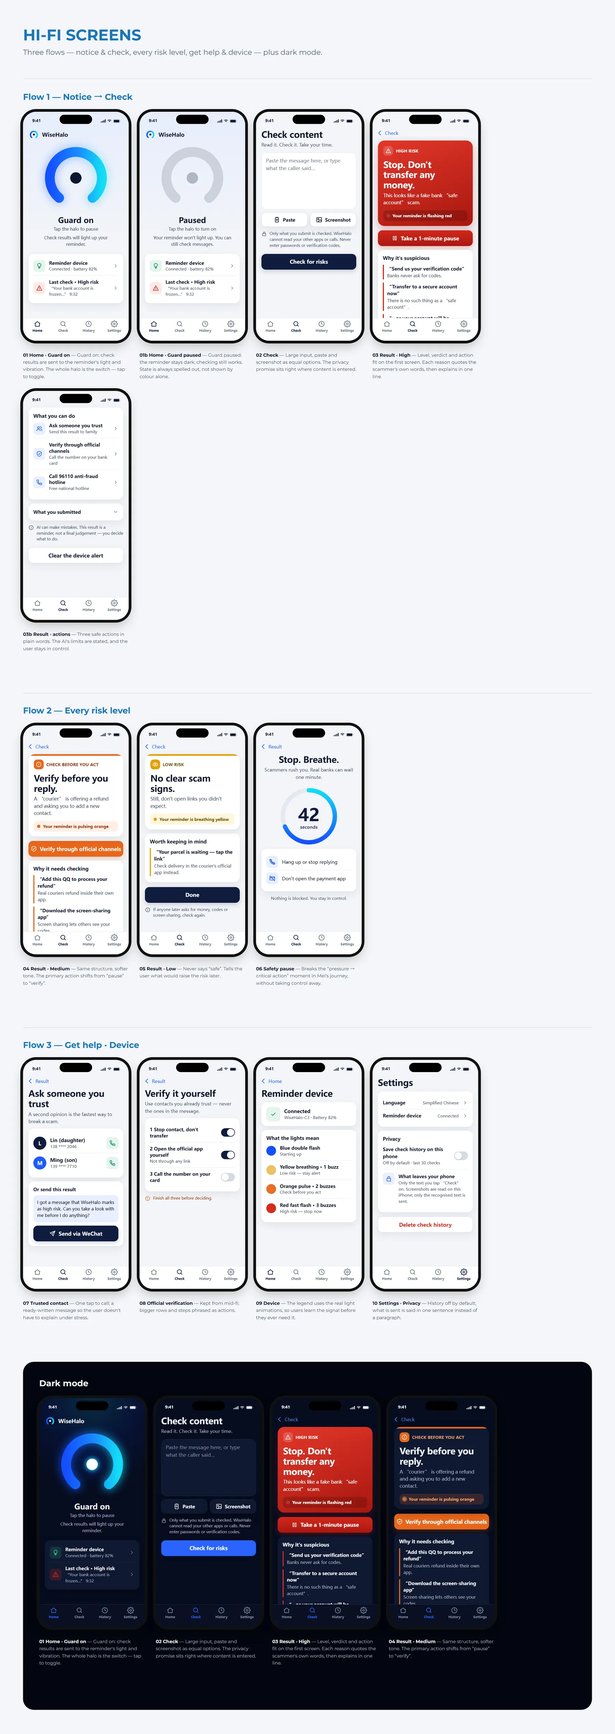
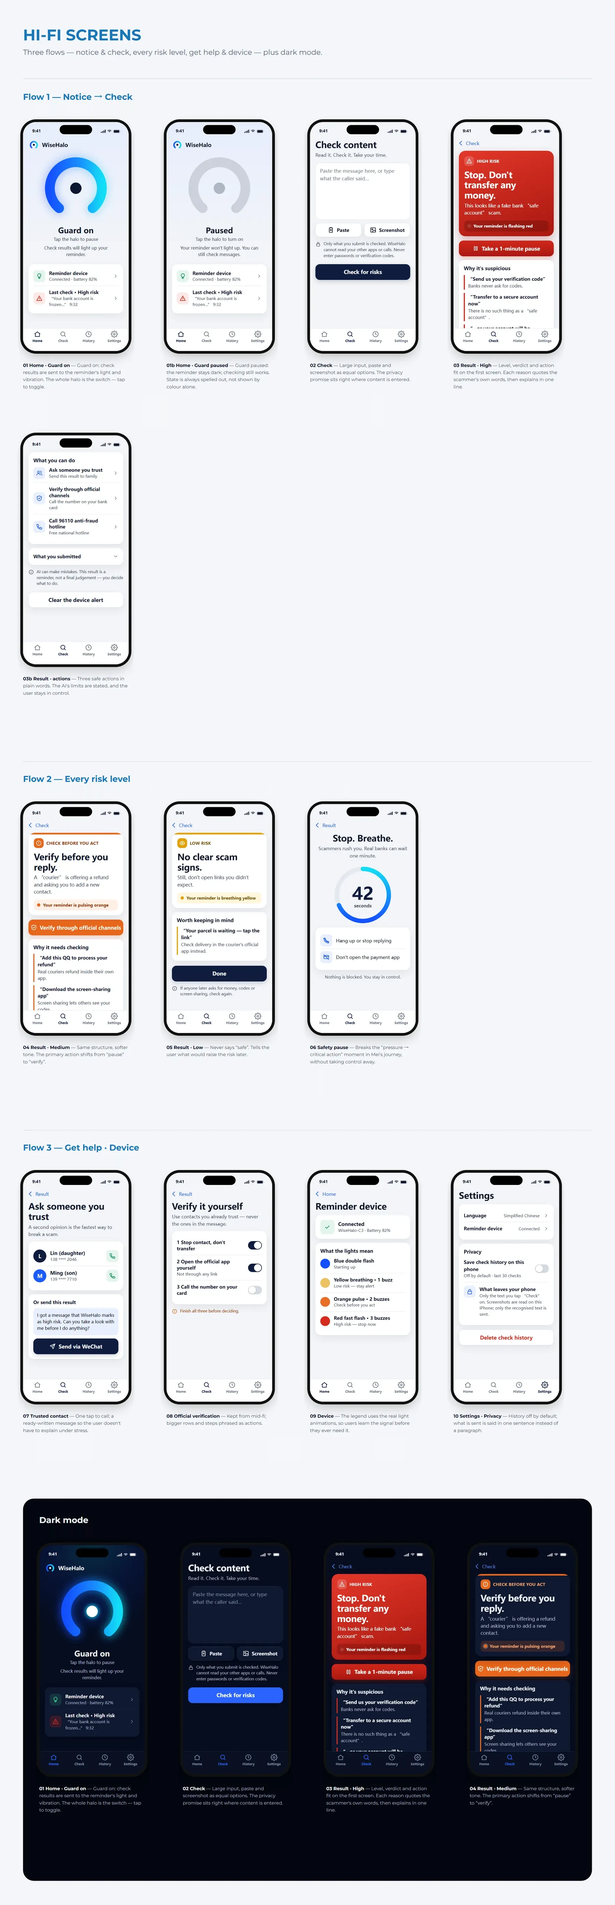
WiseHalo hi-fi boards: wider spacing between screens and rows (zh + en)
Claude-Session: https://claude.ai/code/session_01Dkuoh5qXSQDsoVuafdGbwV

diff --git a/works/wisehalo.html b/works/wisehalo.html
@@ -33,7 +33,7 @@ try{if(!sessionStorage.getItem('wz-loaded')&&!matchMedia('(prefers-reduced-motio
 <main class="project">
   <section class="meta"><div class="m-row"><span><span class="l-zh" lang="zh-Hans-CN">项目类型</span><span class="l-en" lang="en">Project type</span></span><span class="span2"><span class="l-zh" lang="zh-Hans-CN">AI + IOT 硕士毕业设计项目</span><span class="l-en" lang="en">AI + IoT MA thesis project</span></span></div><div class="m-row"><span><span class="l-zh" lang="zh-Hans-CN">项目名称</span><span class="l-en" lang="en">Project name</span></span><span class="span2"><span class="l-zh" lang="zh-Hans-CN">WiseHalo｜AI 防诈骗风险提示系统</span><span class="l-en" lang="en">WiseHalo — Making Hidden Scam Systems Visible</span></span></div><div class="m-row"><span><span class="l-zh" lang="zh-Hans-CN">分类</span><span class="l-en" lang="en">Category</span></span><span class="span2"><span class="tag">[<span class="l-zh" lang="zh-Hans-CN">AI</span><span class="l-en" lang="en">AI</span>]</span><span class="tag">[<span class="l-zh" lang="zh-Hans-CN">交互设计</span><span class="l-en" lang="en">Interaction design</span>]</span><span class="tag">[<span class="l-zh" lang="zh-Hans-CN">IOT</span><span class="l-en" lang="en">IoT</span>]</span><span class="tag">[<span class="l-zh" lang="zh-Hans-CN">适老化</span><span class="l-en" lang="en">Age-inclusive</span>]</span></span></div><div class="m-row"><span><span class="l-zh" lang="zh-Hans-CN">时间</span><span class="l-en" lang="en">Date</span></span><span class="span2">11.2026</span></div></section>
   <div class="p-grid">
-    <div class="p-main"><figure class="fig"><img src="../images/wisehalo/00-hero.webp?v=1794632484" width="1800" height="1012" alt=""></figure><div class="sec-head"><span>01</span><span><span class="l-zh" lang="zh-Hans-CN">问题：诈骗是一个系统</span><span class="l-en" lang="en">Problem: scams are systems</span></span><span class="sec-text"><span class="l-zh" lang="zh-Hans-CN">公开案例显示，诈骗从社交平台和日常任务开始接触用户，用虚假身份建立信任，再用紧迫感和小额回报推动用户做出高风险操作。大多数人只看到表面信息，看不到背后的运作方式，也就很难在中途停下来。</span><span class="l-en" lang="en">Public cases show scams reach people through everyday channels, build trust with fake identities, then use urgency and small rewards to push risky actions. Most people only see the surface message, not the system behind it — so it is hard to stop midway.</span></span></div><div class="figs figs-stack"><figure class="fig"><img src="../images/wisehalo/01.webp?v=1794632484" width="1800" height="1012" alt="" loading="lazy" decoding="async"></figure><figure class="fig"><img src="../images/wisehalo/02.webp?v=1794632484" width="1800" height="1012" alt="" loading="lazy" decoding="async"></figure></div><div class="sec-head"><span>02</span><span><span class="l-zh" lang="zh-Hans-CN">研究：20 个公开案例 + 32 份问卷</span><span class="l-en" lang="en">Research: 20 public cases + 32 surveys</span></span><span class="sec-text"><span class="l-zh" lang="zh-Hans-CN">我分析了 20 个中国 50–65 岁受害者的公开案例，并对 32 人做了线上问卷（其中 50 岁以上 15 人）。大多数人在可疑互动中会提前退出，但最需要的不是更多警告，而是“为什么可疑”的具体解释、可以马上执行的下一步，以及对保护工具本身的信任。</span><span class="l-en" lang="en">I analysed 20 public cases of victims aged 50–65 in China and ran an online survey with 32 people (15 aged 50+). Most respondents already exit suspicious interactions early — what they need is not more warnings, but a specific explanation of why something is suspicious, an actionable next step, and trust in the protective tool itself.</span></span></div><div class="figs figs-stack"><figure class="fig"><img src="../images/wisehalo/03.webp?v=1794632484" width="1800" height="1012" alt="" loading="lazy" decoding="async"></figure><figure class="fig"><img src="../images/wisehalo/04.webp?v=1794632484" width="1800" height="1012" alt="" loading="lazy" decoding="async"></figure><figure class="fig"><img src="../images/wisehalo/05.webp?v=1794632485" width="1800" height="1012" alt="" loading="lazy" decoding="async"></figure><figure class="fig"><img src="../images/wisehalo/06.webp?v=1794632485" width="1800" height="1012" alt="" loading="lazy" decoding="async"></figure><figure class="fig"><img src="../images/wisehalo/07.webp?v=1794632485" width="1800" height="1012" alt="" loading="lazy" decoding="async"></figure><figure class="fig"><img src="../images/wisehalo/08.webp?v=1794632485" width="1800" height="1012" alt="" loading="lazy" decoding="async"></figure></div><div class="sec-head"><span>03</span><span><span class="l-zh" lang="zh-Hans-CN">策略：风险越高，反馈越强</span><span class="l-en" lang="en">Strategy: stronger risk, stronger response</span></span><span class="sec-text"><span class="l-zh" lang="zh-Hans-CN">设备的反馈随风险逐级升级：低风险用黄色呼吸灯提示“核实来源”；中风险用橙色双脉冲并解释诈骗手法、建议联系信任的人；高风险用红色快闪和重复震动，配合手机全屏提示暂停付款。始终由用户自己决定下一步。</span><span class="l-en" lang="en">Feedback escalates with risk: low risk shows a yellow breathing light and suggests checking the source; medium risk adds an orange double pulse, explains the tactic and suggests contacting someone trusted; high risk uses a fast red flash and repeated vibration with a full-screen prompt to pause the payment. The user always makes the final call.</span></span></div><div class="figs figs-stack"><figure class="fig"><img src="../images/wisehalo/09.webp?v=1794632486" width="1800" height="1012" alt="" loading="lazy" decoding="async"></figure><figure class="fig"><img src="../images/wisehalo/10.webp?v=1794632486" width="1800" height="1012" alt="" loading="lazy" decoding="async"></figure><figure class="fig"><img src="../images/wisehalo/11.webp?v=1794632486" width="1800" height="1012" alt="" loading="lazy" decoding="async"></figure></div><div class="sec-head"><span>04</span><span><span class="l-zh" lang="zh-Hans-CN">系统与信息架构</span><span class="l-en" lang="en">System &amp; information architecture</span></span><span class="sec-text"><span class="l-zh" lang="zh-Hans-CN">手机端负责接收可疑内容、调用 AI 分析并解释风险；设备端把风险等级转化为灯光与震动。信息架构围绕“检查 → 理解 → 选择安全行动”三步组织。</span><span class="l-en" lang="en">The phone receives suspicious content, calls the AI analysis and explains the risk; the device translates the risk level into light and vibration. The information architecture follows three steps: check → understand → choose a safe action.</span></span></div><div class="figs figs-stack"><figure class="fig"><img class="l-zh" src="../images/wisehalo/12.webp?v=1794635873" width="1800" height="1861" alt="" loading="lazy" decoding="async"><img class="l-en" src="../images/wisehalo/13.webp?v=1794635873" width="1800" height="1877" alt="" loading="lazy" decoding="async"></figure><figure class="fig"><img src="../images/wisehalo/14.webp?v=1794632487" width="1800" height="1012" alt="" loading="lazy" decoding="async"></figure><figure class="fig"><img src="../images/wisehalo/15.webp?v=1794632487" width="1800" height="1012" alt="" loading="lazy" decoding="async"></figure><figure class="fig"><img src="../images/wisehalo/16.webp?v=1794632488" width="1800" height="1012" alt="" loading="lazy" decoding="async"></figure></div><div class="sec-head"><span>05</span><span><span class="l-zh" lang="zh-Hans-CN">界面：从中保真到高保真</span><span class="l-en" lang="en">Interface: from mid-fi to hi-fi</span></span><span class="sec-text"><span class="l-zh" lang="zh-Hans-CN">高保真把首页做成一个由 App 图标生成的“光环开关”：打开是提醒器守护中，关掉是只用手机提醒。主题色取自图标的藏青与蓝青，鲜艳的颜色只留给光环和风险等级；结果页按“风险等级 → 一句话指令 → 一个主按钮 → 为什么可疑 → 求助”排列，并提供深色模式。下方按设计推进的顺序排列：低保真 → 中保真 → App 图标 → 设计规范（色彩、风险等级、字号与图标、组件、光环开关与结果页）→ 全部高保真界面与深色模式。</span><span class="l-en" lang="en">The hi-fi turns Home into a “halo switch” drawn from the app icon: on means the reminder is guarding, off means phone-only alerts. Colours come from the icon’s navy and blue-cyan, with bright colour reserved for the halo and risk levels. Results follow risk level → one instruction → one primary action → why it’s suspicious → get help, with a dark mode. Below, in the order the design developed: low-fi → mid-fi → app icon → design system (colour, risk levels, type &amp; icons, components, halo switch &amp; result order) → every hi-fi screen plus dark mode.</span></span></div><div class="figs figs-stack"><figure class="fig"><img src="../images/wisehalo/17.webp?v=1794634616" width="1800" height="1012" alt="" loading="lazy" decoding="async"></figure><figure class="fig"><img src="../images/wisehalo/18.webp?v=1794634616" width="1800" height="1012" alt="" loading="lazy" decoding="async"></figure><figure class="fig"><img src="../images/wisehalo/19.webp?v=1794634617" width="1800" height="1012" alt="" loading="lazy" decoding="async"></figure><figure class="fig"><img class="l-zh" src="../images/wisehalo/20.webp?v=1794635873" width="1800" height="1012" alt="" loading="lazy" decoding="async"><img class="l-en" src="../images/wisehalo/21.webp?v=1794635874" width="1800" height="1012" alt="" loading="lazy" decoding="async"></figure><figure class="fig"><img class="l-zh" src="../images/wisehalo/22.webp?v=1794635874" width="1800" height="1012" alt="" loading="lazy" decoding="async"><img class="l-en" src="../images/wisehalo/23.webp?v=1794635874" width="1800" height="1012" alt="" loading="lazy" decoding="async"></figure><figure class="fig"><img class="l-zh" src="../images/wisehalo/24.webp?v=1794635874" width="1800" height="1012" alt="" loading="lazy" decoding="async"><img class="l-en" src="../images/wisehalo/25.webp?v=1794635874" width="1800" height="1012" alt="" loading="lazy" decoding="async"></figure><figure class="fig"><img class="l-zh" src="../images/wisehalo/26.webp?v=1794635875" width="1800" height="1012" alt="" loading="lazy" decoding="async"><img class="l-en" src="../images/wisehalo/27.webp?v=1794635875" width="1800" height="1012" alt="" loading="lazy" decoding="async"></figure><figure class="fig"><img class="l-zh" src="../images/wisehalo/28.webp?v=1794635875" width="1800" height="1012" alt="" loading="lazy" decoding="async"><img class="l-en" src="../images/wisehalo/29.webp?v=1794635875" width="1800" height="1012" alt="" loading="lazy" decoding="async"></figure><figure class="fig"><img class="l-zh" src="../images/wisehalo/30.webp?v=1794635877" width="1800" height="4972" alt="" loading="lazy" decoding="async"><img class="l-en" src="../images/wisehalo/31.webp?v=1794635878" width="1800" height="5069" alt="" loading="lazy" decoding="async"></figure></div><div class="sec-head"><span>06</span><span><span class="l-zh" lang="zh-Hans-CN">可交互原型：试一试</span><span class="l-en" lang="en">Interactive prototype: try it</span></span><span class="sec-text"><span class="l-zh" lang="zh-Hans-CN">这是远程可用性测试使用的原型：点“粘贴”或选一条示例，再点“开始检查”，可以看到风险结果、先暂停 1 分钟、三步核实、发给家人，以及不用打字的“通话快速自查”。首页的光环可以在“只用手机提醒”和“手机 + 提醒器”之间切换——这正是测试中对比的两组。原型用固定规则代替 AI，提醒器状态为模拟。</span><span class="l-en" lang="en">This is the prototype used for remote usability testing: tap Paste or pick an example, then Check, to see the risk result, the 1-minute pause, three-step verification, sending it to family, and the no-typing call self-check. The halo on Home switches between phone-only alerts and phone + reminder — the two conditions compared in testing. The prototype uses fixed rules instead of AI, and the reminder is simulated.</span></span></div><div class="figs figs-stack"><figure class="fig embed phone stage st-halo"><div class="stage-bg" aria-hidden="true"><svg class="stage-halo" viewBox="0 0 236 236" preserveAspectRatio="xMidYMid meet"><defs><linearGradient id="st-halo-g" x1="0" x2="1"><stop offset="0" stop-color="#1450FF"/><stop offset=".55" stop-color="#1A8BFF"/><stop offset="1" stop-color="#12DCF6"/></linearGradient><filter id="st-halo-blur" x="-30%" y="-30%" width="160%" height="160%"><feGaussianBlur stdDeviation="9"/></filter></defs><path class="glow" d="M56.3 191.5A96 96 0 1 1 179.7 191.5"/><path class="echo" d="M38.3 213.0A124 124 0 1 1 197.7 213.0"/><path class="echo e2" d="M21.6 232.9A150 150 0 1 1 214.4 232.9"/><path class="ring" d="M56.3 191.5A96 96 0 1 1 179.7 191.5"/><circle class="led low" cx="34.9" cy="70" r="2.6"/><circle class="led mid" cx="118" cy="22" r="2.6"/><circle class="led high" cx="201.1" cy="70" r="2.6"/></svg><div class="stage-label"><b><span class="l-zh" lang="zh-Hans-CN">可试玩 · 安心护</span><span class="l-en" lang="en">Live demo · WiseHalo</span></b><span><span class="l-zh" lang="zh-Hans-CN">演示模式 · 固定规则代替 AI</span><span class="l-en" lang="en">Demo mode · fixed rules instead of AI</span></span></div><div class="stage-co stage-co1"><span class="n">01</span><b><span class="l-zh" lang="zh-Hans-CN">粘贴 → 检查</span><span class="l-en" lang="en">Paste → Check</span></b><span class="d"><span class="l-zh" lang="zh-Hans-CN">选一条示例，看风险结果</span><span class="l-en" lang="en">Pick an example, see the risk</span></span><i></i></div><div class="stage-co stage-co2"><span class="n">02</span><b><span class="l-zh" lang="zh-Hans-CN">先停一下</span><span class="l-en" lang="en">Pause first</span></b><span class="d"><span class="l-zh" lang="zh-Hans-CN">高风险时暂停 1 分钟，再核实</span><span class="l-en" lang="en">High risk: a 1-minute pause, then verify</span></span><i></i></div><div class="stage-co stage-co3"><span class="n">03</span><b><span class="l-zh" lang="zh-Hans-CN">光环开关</span><span class="l-en" lang="en">Halo switch</span></b><span class="d"><span class="l-zh" lang="zh-Hans-CN">只用手机 ↔ 手机 + 提醒器</span><span class="l-en" lang="en">Phone only ↔ phone + reminder</span></span><i></i></div><div class="stage-co stage-co4"><span class="n">04</span><b><span class="l-zh" lang="zh-Hans-CN">通话快速自查</span><span class="l-en" lang="en">Call self-check</span></b><span class="d"><span class="l-zh" lang="zh-Hans-CN">不用打字，回答 5 个问题</span><span class="l-en" lang="en">No typing, five questions</span></span><i></i></div></div><iframe data-lang-src="../wisehalo-test/?demo=1&amp;frame=1&amp;lang={lang}&amp;theme={theme}" title="WiseHalo interactive prototype" loading="lazy" allow="microphone; camera; autoplay; clipboard-write"></iframe><figcaption><a class="u" href="../wisehalo-test/?demo=1" target="_blank" rel="noopener"><span class="l-zh" lang="zh-Hans-CN">在新窗口打开，或用手机打开 ↗</span><span class="l-en" lang="en">Open in a new tab or on your phone ↗</span></a></figcaption></figure></div><div class="sec-head"><span>07</span><span><span class="l-zh" lang="zh-Hans-CN">硬件原型：灯光与震动语言</span><span class="l-en" lang="en">Hardware: a language of light and vibration</span></span><span class="sec-text"><span class="l-zh" lang="zh-Hans-CN">用 ESP32-C3、RGB 灯环和震动马达搭建原型：先在 Wokwi 中仿真三种风险等级的反馈逻辑，再在面包板上逐项测试灯光和震动，最后让 App 的 AI 分析结果驱动设备反馈。</span><span class="l-en" lang="en">Built with an ESP32-C3, an RGB LED ring and a vibration motor: the feedback logic for three risk levels was first simulated in Wokwi, then tested on a breadboard, and finally driven by the app&#x27;s AI analysis result.</span></span></div><div class="figs figs-stack"><figure class="fig"><img src="../images/wisehalo/32.webp?v=1794634622" width="1800" height="1012" alt="" loading="lazy" decoding="async"></figure><figure class="fig"><img src="../images/wisehalo/33.webp?v=1794634622" width="1800" height="1012" alt="" loading="lazy" decoding="async"></figure><figure class="fig"><img src="../images/wisehalo/34.webp?v=1794634622" width="1800" height="1012" alt="" loading="lazy" decoding="async"></figure><figure class="fig"><img src="../images/wisehalo/35.webp?v=1794634622" width="1800" height="1012" alt="" loading="lazy" decoding="async"></figure><figure class="fig"><img src="../images/wisehalo/36.webp?v=1794634623" width="1800" height="1012" alt="" loading="lazy" decoding="async"></figure><figure class="fig"><img src="../images/wisehalo/37.webp?v=1794634623" width="1800" height="1012" alt="" loading="lazy" decoding="async"></figure></div><div class="sec-head"><span>08</span><span><span class="l-zh" lang="zh-Hans-CN">现状与下一步</span><span class="l-en" lang="en">Status &amp; next steps</span></span><span class="sec-text"><span class="l-zh" lang="zh-Hans-CN">目前已实现：高保真 iOS App（SwiftUI）——提交文字或截图 → AI 分析 → 风险等级、解释与建议 → 提醒器灯光与震动；手机负责“提醒一次”，桌上的提醒器“一直提醒，直到您暂停或核实”。另有通话快速自查、读给我听、屏幕共享警告和 App 内字号。下一步：对 5 位 50 岁以上长辈做远程可用性测试（含“只有手机 / 手机 + 提醒器”对比）和专家评估。</span><span class="l-en" lang="en">Working today: a hi-fi iOS app (SwiftUI) — submit text or a screenshot → AI analysis → risk level, explanation and advice → light and vibration on the reminder. The phone alerts once; the desk reminder keeps alerting until you pause or verify. Also: a call self-check, read-aloud, a screen-sharing warning and in-app text size. Next: remote usability testing with five adults aged 50+ (including phone-only vs phone + reminder) and an expert evaluation.</span></span></div></div>
+    <div class="p-main"><figure class="fig"><img src="../images/wisehalo/00-hero.webp?v=1794632484" width="1800" height="1012" alt=""></figure><div class="sec-head"><span>01</span><span><span class="l-zh" lang="zh-Hans-CN">问题：诈骗是一个系统</span><span class="l-en" lang="en">Problem: scams are systems</span></span><span class="sec-text"><span class="l-zh" lang="zh-Hans-CN">公开案例显示，诈骗从社交平台和日常任务开始接触用户，用虚假身份建立信任，再用紧迫感和小额回报推动用户做出高风险操作。大多数人只看到表面信息，看不到背后的运作方式，也就很难在中途停下来。</span><span class="l-en" lang="en">Public cases show scams reach people through everyday channels, build trust with fake identities, then use urgency and small rewards to push risky actions. Most people only see the surface message, not the system behind it — so it is hard to stop midway.</span></span></div><div class="figs figs-stack"><figure class="fig"><img src="../images/wisehalo/01.webp?v=1794632484" width="1800" height="1012" alt="" loading="lazy" decoding="async"></figure><figure class="fig"><img src="../images/wisehalo/02.webp?v=1794632484" width="1800" height="1012" alt="" loading="lazy" decoding="async"></figure></div><div class="sec-head"><span>02</span><span><span class="l-zh" lang="zh-Hans-CN">研究：20 个公开案例 + 32 份问卷</span><span class="l-en" lang="en">Research: 20 public cases + 32 surveys</span></span><span class="sec-text"><span class="l-zh" lang="zh-Hans-CN">我分析了 20 个中国 50–65 岁受害者的公开案例，并对 32 人做了线上问卷（其中 50 岁以上 15 人）。大多数人在可疑互动中会提前退出，但最需要的不是更多警告，而是“为什么可疑”的具体解释、可以马上执行的下一步，以及对保护工具本身的信任。</span><span class="l-en" lang="en">I analysed 20 public cases of victims aged 50–65 in China and ran an online survey with 32 people (15 aged 50+). Most respondents already exit suspicious interactions early — what they need is not more warnings, but a specific explanation of why something is suspicious, an actionable next step, and trust in the protective tool itself.</span></span></div><div class="figs figs-stack"><figure class="fig"><img src="../images/wisehalo/03.webp?v=1794632484" width="1800" height="1012" alt="" loading="lazy" decoding="async"></figure><figure class="fig"><img src="../images/wisehalo/04.webp?v=1794632484" width="1800" height="1012" alt="" loading="lazy" decoding="async"></figure><figure class="fig"><img src="../images/wisehalo/05.webp?v=1794632485" width="1800" height="1012" alt="" loading="lazy" decoding="async"></figure><figure class="fig"><img src="../images/wisehalo/06.webp?v=1794632485" width="1800" height="1012" alt="" loading="lazy" decoding="async"></figure><figure class="fig"><img src="../images/wisehalo/07.webp?v=1794632485" width="1800" height="1012" alt="" loading="lazy" decoding="async"></figure><figure class="fig"><img src="../images/wisehalo/08.webp?v=1794632485" width="1800" height="1012" alt="" loading="lazy" decoding="async"></figure></div><div class="sec-head"><span>03</span><span><span class="l-zh" lang="zh-Hans-CN">策略：风险越高，反馈越强</span><span class="l-en" lang="en">Strategy: stronger risk, stronger response</span></span><span class="sec-text"><span class="l-zh" lang="zh-Hans-CN">设备的反馈随风险逐级升级：低风险用黄色呼吸灯提示“核实来源”；中风险用橙色双脉冲并解释诈骗手法、建议联系信任的人；高风险用红色快闪和重复震动，配合手机全屏提示暂停付款。始终由用户自己决定下一步。</span><span class="l-en" lang="en">Feedback escalates with risk: low risk shows a yellow breathing light and suggests checking the source; medium risk adds an orange double pulse, explains the tactic and suggests contacting someone trusted; high risk uses a fast red flash and repeated vibration with a full-screen prompt to pause the payment. The user always makes the final call.</span></span></div><div class="figs figs-stack"><figure class="fig"><img src="../images/wisehalo/09.webp?v=1794632486" width="1800" height="1012" alt="" loading="lazy" decoding="async"></figure><figure class="fig"><img src="../images/wisehalo/10.webp?v=1794632486" width="1800" height="1012" alt="" loading="lazy" decoding="async"></figure><figure class="fig"><img src="../images/wisehalo/11.webp?v=1794632486" width="1800" height="1012" alt="" loading="lazy" decoding="async"></figure></div><div class="sec-head"><span>04</span><span><span class="l-zh" lang="zh-Hans-CN">系统与信息架构</span><span class="l-en" lang="en">System &amp; information architecture</span></span><span class="sec-text"><span class="l-zh" lang="zh-Hans-CN">手机端负责接收可疑内容、调用 AI 分析并解释风险；设备端把风险等级转化为灯光与震动。信息架构围绕“检查 → 理解 → 选择安全行动”三步组织。</span><span class="l-en" lang="en">The phone receives suspicious content, calls the AI analysis and explains the risk; the device translates the risk level into light and vibration. The information architecture follows three steps: check → understand → choose a safe action.</span></span></div><div class="figs figs-stack"><figure class="fig"><img class="l-zh" src="../images/wisehalo/12.webp?v=1794635873" width="1800" height="1861" alt="" loading="lazy" decoding="async"><img class="l-en" src="../images/wisehalo/13.webp?v=1794635873" width="1800" height="1877" alt="" loading="lazy" decoding="async"></figure><figure class="fig"><img src="../images/wisehalo/14.webp?v=1794632487" width="1800" height="1012" alt="" loading="lazy" decoding="async"></figure><figure class="fig"><img src="../images/wisehalo/15.webp?v=1794632487" width="1800" height="1012" alt="" loading="lazy" decoding="async"></figure><figure class="fig"><img src="../images/wisehalo/16.webp?v=1794632488" width="1800" height="1012" alt="" loading="lazy" decoding="async"></figure></div><div class="sec-head"><span>05</span><span><span class="l-zh" lang="zh-Hans-CN">界面：从中保真到高保真</span><span class="l-en" lang="en">Interface: from mid-fi to hi-fi</span></span><span class="sec-text"><span class="l-zh" lang="zh-Hans-CN">高保真把首页做成一个由 App 图标生成的“光环开关”：打开是提醒器守护中，关掉是只用手机提醒。主题色取自图标的藏青与蓝青，鲜艳的颜色只留给光环和风险等级；结果页按“风险等级 → 一句话指令 → 一个主按钮 → 为什么可疑 → 求助”排列，并提供深色模式。下方按设计推进的顺序排列：低保真 → 中保真 → App 图标 → 设计规范（色彩、风险等级、字号与图标、组件、光环开关与结果页）→ 全部高保真界面与深色模式。</span><span class="l-en" lang="en">The hi-fi turns Home into a “halo switch” drawn from the app icon: on means the reminder is guarding, off means phone-only alerts. Colours come from the icon’s navy and blue-cyan, with bright colour reserved for the halo and risk levels. Results follow risk level → one instruction → one primary action → why it’s suspicious → get help, with a dark mode. Below, in the order the design developed: low-fi → mid-fi → app icon → design system (colour, risk levels, type &amp; icons, components, halo switch &amp; result order) → every hi-fi screen plus dark mode.</span></span></div><div class="figs figs-stack"><figure class="fig"><img src="../images/wisehalo/17.webp?v=1794634616" width="1800" height="1012" alt="" loading="lazy" decoding="async"></figure><figure class="fig"><img src="../images/wisehalo/18.webp?v=1794634616" width="1800" height="1012" alt="" loading="lazy" decoding="async"></figure><figure class="fig"><img src="../images/wisehalo/19.webp?v=1794634617" width="1800" height="1012" alt="" loading="lazy" decoding="async"></figure><figure class="fig"><img class="l-zh" src="../images/wisehalo/20.webp?v=1794635873" width="1800" height="1012" alt="" loading="lazy" decoding="async"><img class="l-en" src="../images/wisehalo/21.webp?v=1794635874" width="1800" height="1012" alt="" loading="lazy" decoding="async"></figure><figure class="fig"><img class="l-zh" src="../images/wisehalo/22.webp?v=1794635874" width="1800" height="1012" alt="" loading="lazy" decoding="async"><img class="l-en" src="../images/wisehalo/23.webp?v=1794635874" width="1800" height="1012" alt="" loading="lazy" decoding="async"></figure><figure class="fig"><img class="l-zh" src="../images/wisehalo/24.webp?v=1794635874" width="1800" height="1012" alt="" loading="lazy" decoding="async"><img class="l-en" src="../images/wisehalo/25.webp?v=1794635874" width="1800" height="1012" alt="" loading="lazy" decoding="async"></figure><figure class="fig"><img class="l-zh" src="../images/wisehalo/26.webp?v=1794635875" width="1800" height="1012" alt="" loading="lazy" decoding="async"><img class="l-en" src="../images/wisehalo/27.webp?v=1794635875" width="1800" height="1012" alt="" loading="lazy" decoding="async"></figure><figure class="fig"><img class="l-zh" src="../images/wisehalo/28.webp?v=1794635875" width="1800" height="1012" alt="" loading="lazy" decoding="async"><img class="l-en" src="../images/wisehalo/29.webp?v=1794635875" width="1800" height="1012" alt="" loading="lazy" decoding="async"></figure><figure class="fig"><img class="l-zh" src="../images/wisehalo/30.webp?v=1794636700" width="1800" height="5472" alt="" loading="lazy" decoding="async"><img class="l-en" src="../images/wisehalo/31.webp?v=1794636700" width="1800" height="5569" alt="" loading="lazy" decoding="async"></figure></div><div class="sec-head"><span>06</span><span><span class="l-zh" lang="zh-Hans-CN">可交互原型：试一试</span><span class="l-en" lang="en">Interactive prototype: try it</span></span><span class="sec-text"><span class="l-zh" lang="zh-Hans-CN">这是远程可用性测试使用的原型：点“粘贴”或选一条示例，再点“开始检查”，可以看到风险结果、先暂停 1 分钟、三步核实、发给家人，以及不用打字的“通话快速自查”。首页的光环可以在“只用手机提醒”和“手机 + 提醒器”之间切换——这正是测试中对比的两组。原型用固定规则代替 AI，提醒器状态为模拟。</span><span class="l-en" lang="en">This is the prototype used for remote usability testing: tap Paste or pick an example, then Check, to see the risk result, the 1-minute pause, three-step verification, sending it to family, and the no-typing call self-check. The halo on Home switches between phone-only alerts and phone + reminder — the two conditions compared in testing. The prototype uses fixed rules instead of AI, and the reminder is simulated.</span></span></div><div class="figs figs-stack"><figure class="fig embed phone stage st-halo"><div class="stage-bg" aria-hidden="true"><svg class="stage-halo" viewBox="0 0 236 236" preserveAspectRatio="xMidYMid meet"><defs><linearGradient id="st-halo-g" x1="0" x2="1"><stop offset="0" stop-color="#1450FF"/><stop offset=".55" stop-color="#1A8BFF"/><stop offset="1" stop-color="#12DCF6"/></linearGradient><filter id="st-halo-blur" x="-30%" y="-30%" width="160%" height="160%"><feGaussianBlur stdDeviation="9"/></filter></defs><path class="glow" d="M56.3 191.5A96 96 0 1 1 179.7 191.5"/><path class="echo" d="M38.3 213.0A124 124 0 1 1 197.7 213.0"/><path class="echo e2" d="M21.6 232.9A150 150 0 1 1 214.4 232.9"/><path class="ring" d="M56.3 191.5A96 96 0 1 1 179.7 191.5"/><circle class="led low" cx="34.9" cy="70" r="2.6"/><circle class="led mid" cx="118" cy="22" r="2.6"/><circle class="led high" cx="201.1" cy="70" r="2.6"/></svg><div class="stage-label"><b><span class="l-zh" lang="zh-Hans-CN">可试玩 · 安心护</span><span class="l-en" lang="en">Live demo · WiseHalo</span></b><span><span class="l-zh" lang="zh-Hans-CN">演示模式 · 固定规则代替 AI</span><span class="l-en" lang="en">Demo mode · fixed rules instead of AI</span></span></div><div class="stage-co stage-co1"><span class="n">01</span><b><span class="l-zh" lang="zh-Hans-CN">粘贴 → 检查</span><span class="l-en" lang="en">Paste → Check</span></b><span class="d"><span class="l-zh" lang="zh-Hans-CN">选一条示例，看风险结果</span><span class="l-en" lang="en">Pick an example, see the risk</span></span><i></i></div><div class="stage-co stage-co2"><span class="n">02</span><b><span class="l-zh" lang="zh-Hans-CN">先停一下</span><span class="l-en" lang="en">Pause first</span></b><span class="d"><span class="l-zh" lang="zh-Hans-CN">高风险时暂停 1 分钟，再核实</span><span class="l-en" lang="en">High risk: a 1-minute pause, then verify</span></span><i></i></div><div class="stage-co stage-co3"><span class="n">03</span><b><span class="l-zh" lang="zh-Hans-CN">光环开关</span><span class="l-en" lang="en">Halo switch</span></b><span class="d"><span class="l-zh" lang="zh-Hans-CN">只用手机 ↔ 手机 + 提醒器</span><span class="l-en" lang="en">Phone only ↔ phone + reminder</span></span><i></i></div><div class="stage-co stage-co4"><span class="n">04</span><b><span class="l-zh" lang="zh-Hans-CN">通话快速自查</span><span class="l-en" lang="en">Call self-check</span></b><span class="d"><span class="l-zh" lang="zh-Hans-CN">不用打字，回答 5 个问题</span><span class="l-en" lang="en">No typing, five questions</span></span><i></i></div></div><iframe data-lang-src="../wisehalo-test/?demo=1&amp;frame=1&amp;lang={lang}&amp;theme={theme}" title="WiseHalo interactive prototype" loading="lazy" allow="microphone; camera; autoplay; clipboard-write"></iframe><figcaption><a class="u" href="../wisehalo-test/?demo=1" target="_blank" rel="noopener"><span class="l-zh" lang="zh-Hans-CN">在新窗口打开，或用手机打开 ↗</span><span class="l-en" lang="en">Open in a new tab or on your phone ↗</span></a></figcaption></figure></div><div class="sec-head"><span>07</span><span><span class="l-zh" lang="zh-Hans-CN">硬件原型：灯光与震动语言</span><span class="l-en" lang="en">Hardware: a language of light and vibration</span></span><span class="sec-text"><span class="l-zh" lang="zh-Hans-CN">用 ESP32-C3、RGB 灯环和震动马达搭建原型：先在 Wokwi 中仿真三种风险等级的反馈逻辑，再在面包板上逐项测试灯光和震动，最后让 App 的 AI 分析结果驱动设备反馈。</span><span class="l-en" lang="en">Built with an ESP32-C3, an RGB LED ring and a vibration motor: the feedback logic for three risk levels was first simulated in Wokwi, then tested on a breadboard, and finally driven by the app&#x27;s AI analysis result.</span></span></div><div class="figs figs-stack"><figure class="fig"><img src="../images/wisehalo/32.webp?v=1794634622" width="1800" height="1012" alt="" loading="lazy" decoding="async"></figure><figure class="fig"><img src="../images/wisehalo/33.webp?v=1794634622" width="1800" height="1012" alt="" loading="lazy" decoding="async"></figure><figure class="fig"><img src="../images/wisehalo/34.webp?v=1794634622" width="1800" height="1012" alt="" loading="lazy" decoding="async"></figure><figure class="fig"><img src="../images/wisehalo/35.webp?v=1794634622" width="1800" height="1012" alt="" loading="lazy" decoding="async"></figure><figure class="fig"><img src="../images/wisehalo/36.webp?v=1794634623" width="1800" height="1012" alt="" loading="lazy" decoding="async"></figure><figure class="fig"><img src="../images/wisehalo/37.webp?v=1794634623" width="1800" height="1012" alt="" loading="lazy" decoding="async"></figure></div><div class="sec-head"><span>08</span><span><span class="l-zh" lang="zh-Hans-CN">现状与下一步</span><span class="l-en" lang="en">Status &amp; next steps</span></span><span class="sec-text"><span class="l-zh" lang="zh-Hans-CN">目前已实现：高保真 iOS App（SwiftUI）——提交文字或截图 → AI 分析 → 风险等级、解释与建议 → 提醒器灯光与震动；手机负责“提醒一次”，桌上的提醒器“一直提醒，直到您暂停或核实”。另有通话快速自查、读给我听、屏幕共享警告和 App 内字号。下一步：对 5 位 50 岁以上长辈做远程可用性测试（含“只有手机 / 手机 + 提醒器”对比）和专家评估。</span><span class="l-en" lang="en">Working today: a hi-fi iOS app (SwiftUI) — submit text or a screenshot → AI analysis → risk level, explanation and advice → light and vibration on the reminder. The phone alerts once; the desk reminder keeps alerting until you pause or verify. Also: a call self-check, read-aloud, a screen-sharing warning and in-app text size. Next: remote usability testing with five adults aged 50+ (including phone-only vs phone + reminder) and an expert evaluation.</span></span></div></div>
     <aside class="p-side"><div class="sticky"><p><span class="l-zh" lang="zh-Hans-CN">WISEHALO 是我的硕士毕业设计，一个结合 AI 风险分析与实体提醒设备的防诈骗体验项目。项目把可疑信息交给 AI 解释“为什么可疑”，并通过灯光与震动在关键时刻提醒用户先停下来，探索如何让隐藏在日常沟通中的诈骗系统变得可见、可理解、可应对。</span><span class="l-en" lang="en">WISEHALO is my MA thesis: an anti-scam experience combining AI risk analysis with a physical alert device. It asks AI to explain why a message is suspicious and uses light and vibration to prompt a pause at the critical moment — making the scam systems hidden in everyday communication visible, understandable and actionable.</span></p></div></aside>
   </div>
   <section class="meta p-foot"><div class="m-row"><span><span class="l-zh" lang="zh-Hans-CN">CREDITS</span><span class="l-en" lang="en">CREDITS</span></span><span class="span2"><span class="l-zh" lang="zh-Hans-CN">用户研究｜AI 功能设计｜交互设计｜界面设计｜硬件原型</span><span class="l-en" lang="en">User research | AI feature design | Interaction design | UI | Hardware prototyping</span></span></div><div class="m-row"><span><span class="l-zh" lang="zh-Hans-CN">项目性质</span><span class="l-en" lang="en">Format</span></span><span class="span2"><span class="l-zh" lang="zh-Hans-CN">硕士毕业设计 · 个人项目</span><span class="l-en" lang="en">MA thesis · Solo project</span></span></div><div class="m-row"><span><span class="l-zh" lang="zh-Hans-CN">团队</span><span class="l-en" lang="en">Team</span></span><span class="span2"><span class="l-zh" lang="zh-Hans-CN">个人项目</span><span class="l-en" lang="en">Solo</span></span></div><div class="m-row"><span><span class="l-zh" lang="zh-Hans-CN">课程</span><span class="l-en" lang="en">Course</span></span><span class="span2">ITGM 748 · SCAD</span></div><div class="m-row"><span><span class="l-zh" lang="zh-Hans-CN">周期</span><span class="l-en" lang="en">Timeline</span></span><span class="span2">2026.09 – 2026.11</span></div><div class="m-row"><span><span class="l-zh" lang="zh-Hans-CN">工具</span><span class="l-en" lang="en">Tools</span></span><span class="span2">Figma · ESP32-C3 · Wokwi · LLM API · Rhino</span></div><div class="m-row"><span><span class="l-zh" lang="zh-Hans-CN">状态</span><span class="l-en" lang="en">Status</span></span><span class="span2"><span class="l-zh" lang="zh-Hans-CN">进行中</span><span class="l-en" lang="en">In progress</span></span></div><div class="m-row pager"><span></span><span class="span2"><a href="ai-companion-toy.html">NEXT ›</a></span></div></section>
